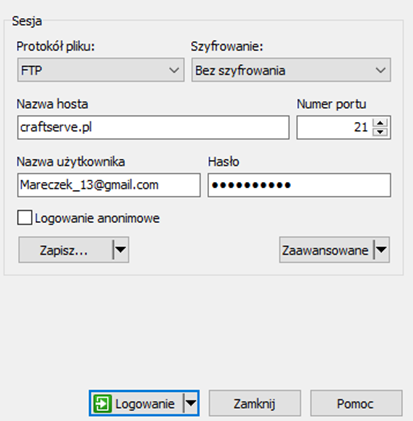
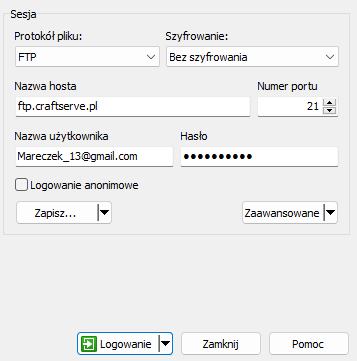
zmiany w ftp (#30)
* Update ftp.md

* Delete 3.png

* Add files via upload

diff --git a/ftp.md b/ftp.md
@@ -18,7 +18,7 @@ Jeśli jednak go nie mamy albo przypadkowo je zamkniemy należy, je włączyć k
 
 Żeby połączyć się z naszym serwerem trzeba:
 - Wybrać w **Protokół pliku**: FTP
-- Wpisać w **Nazwa hosta**: craftserve.pl
+- Wpisać w **Nazwa hosta**: ftp.craftserve.pl
 - Wpisać w **Nazwa użytkownika**: adres e-mail naszego konta Craftserve
 - Wpisać w **Hasło**: hasło do naszego konta Craftserve
 - Wybrać port **21**
